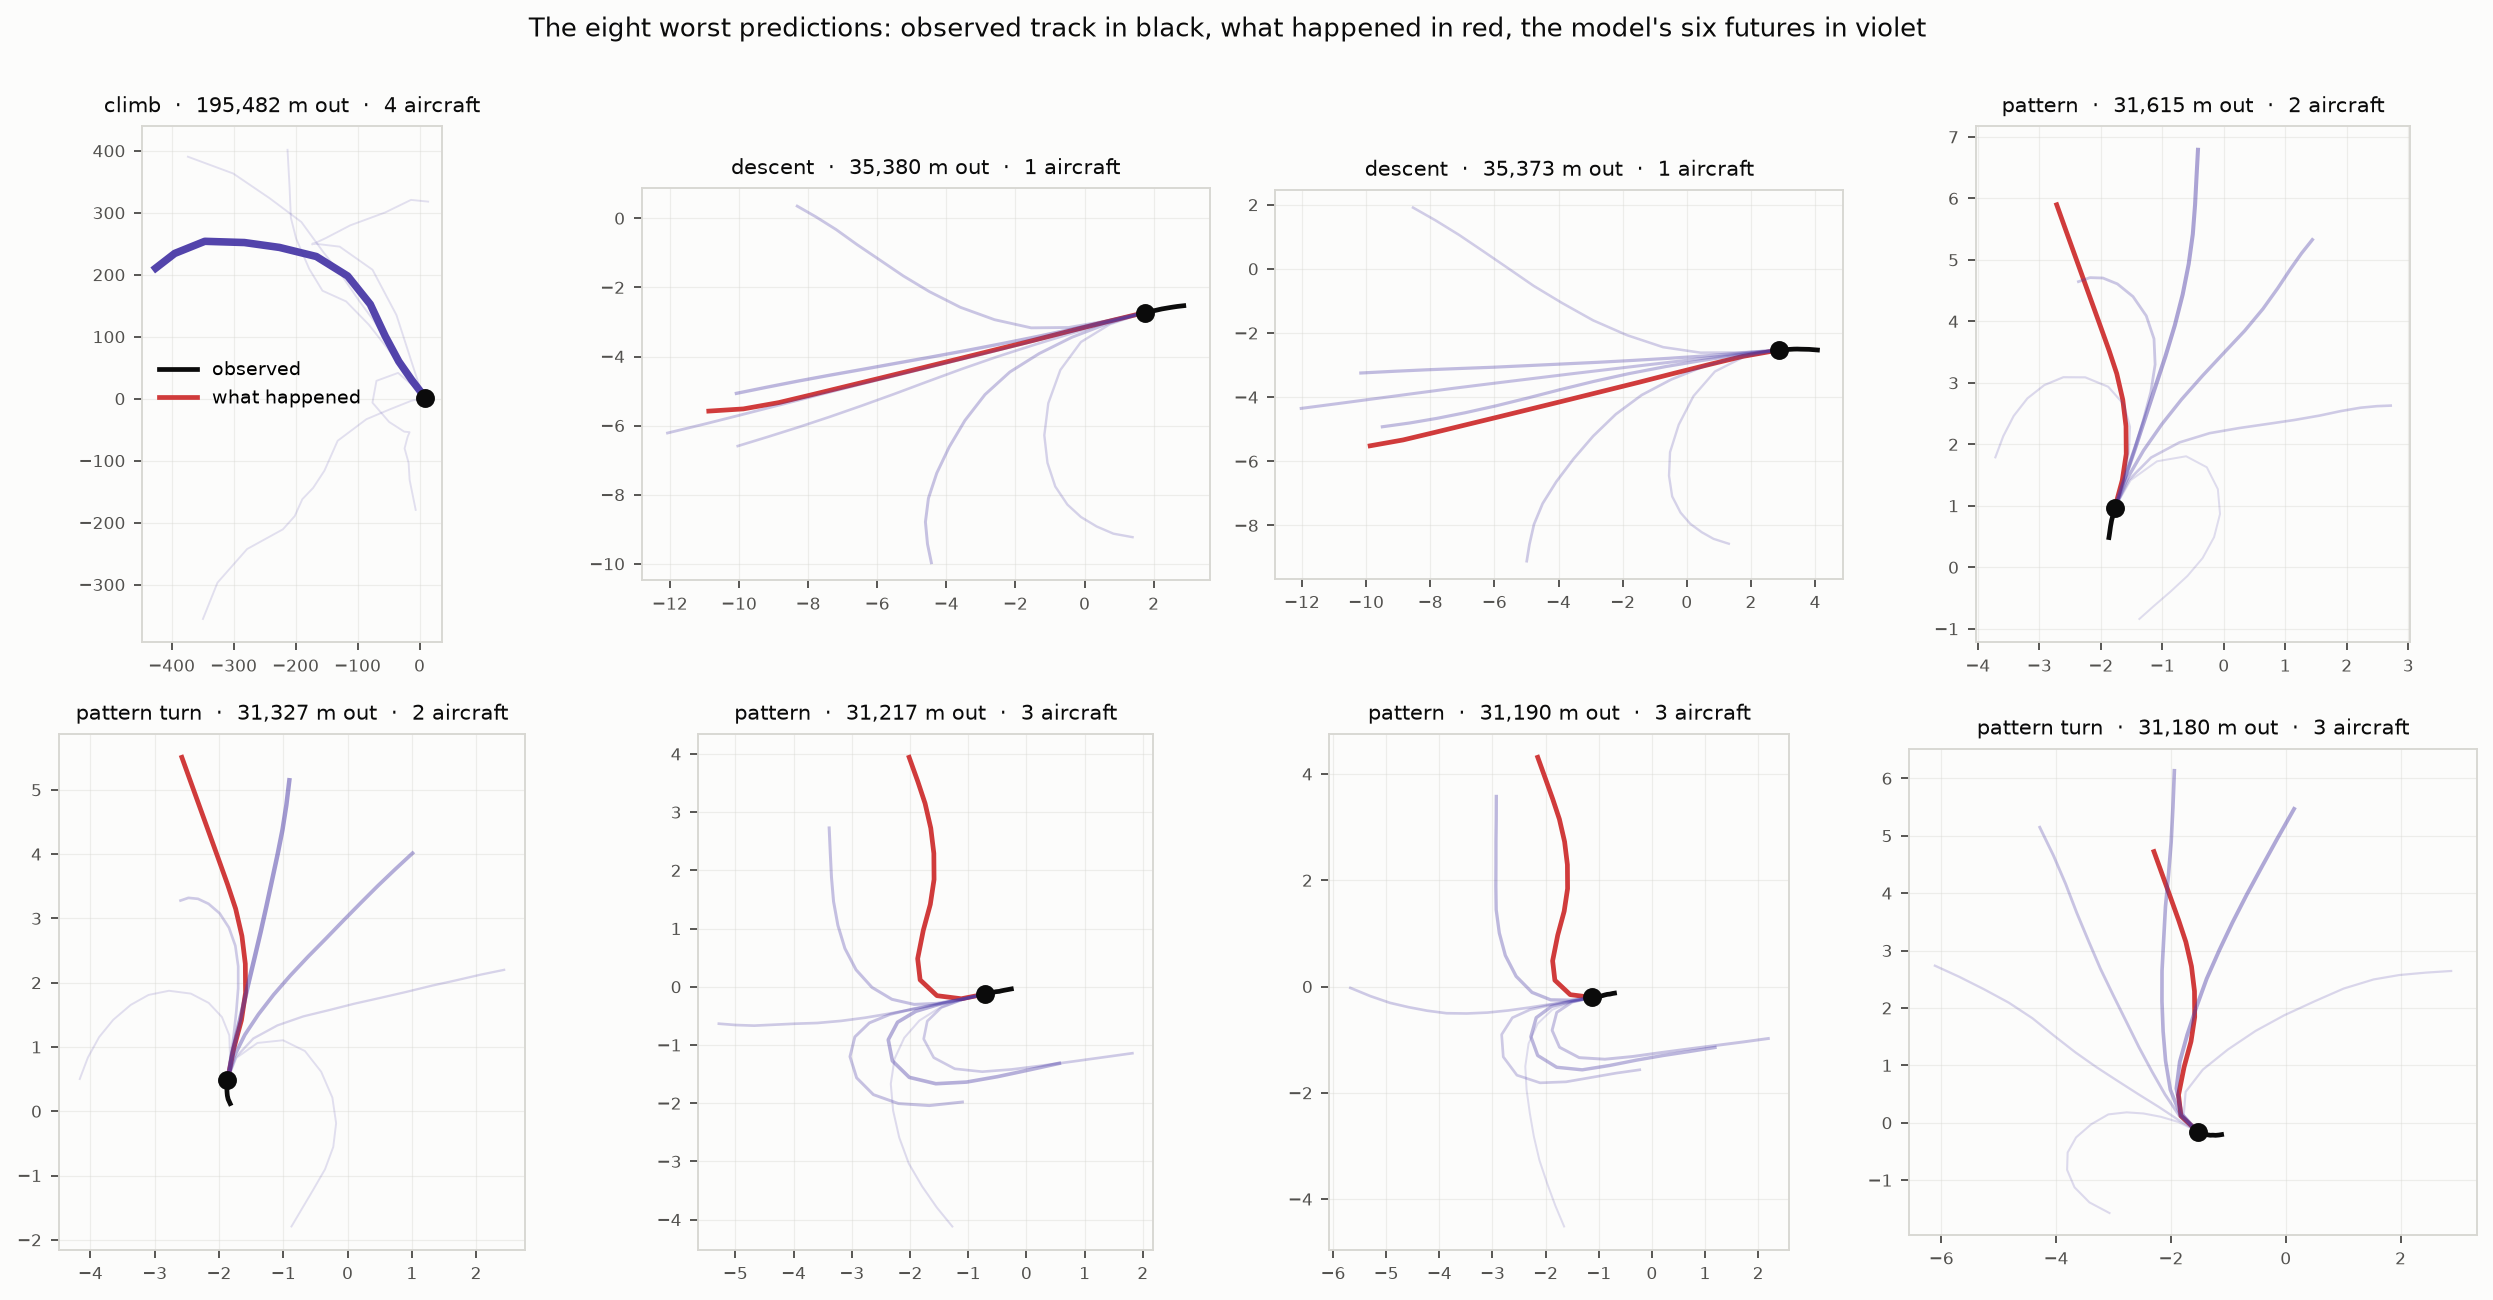
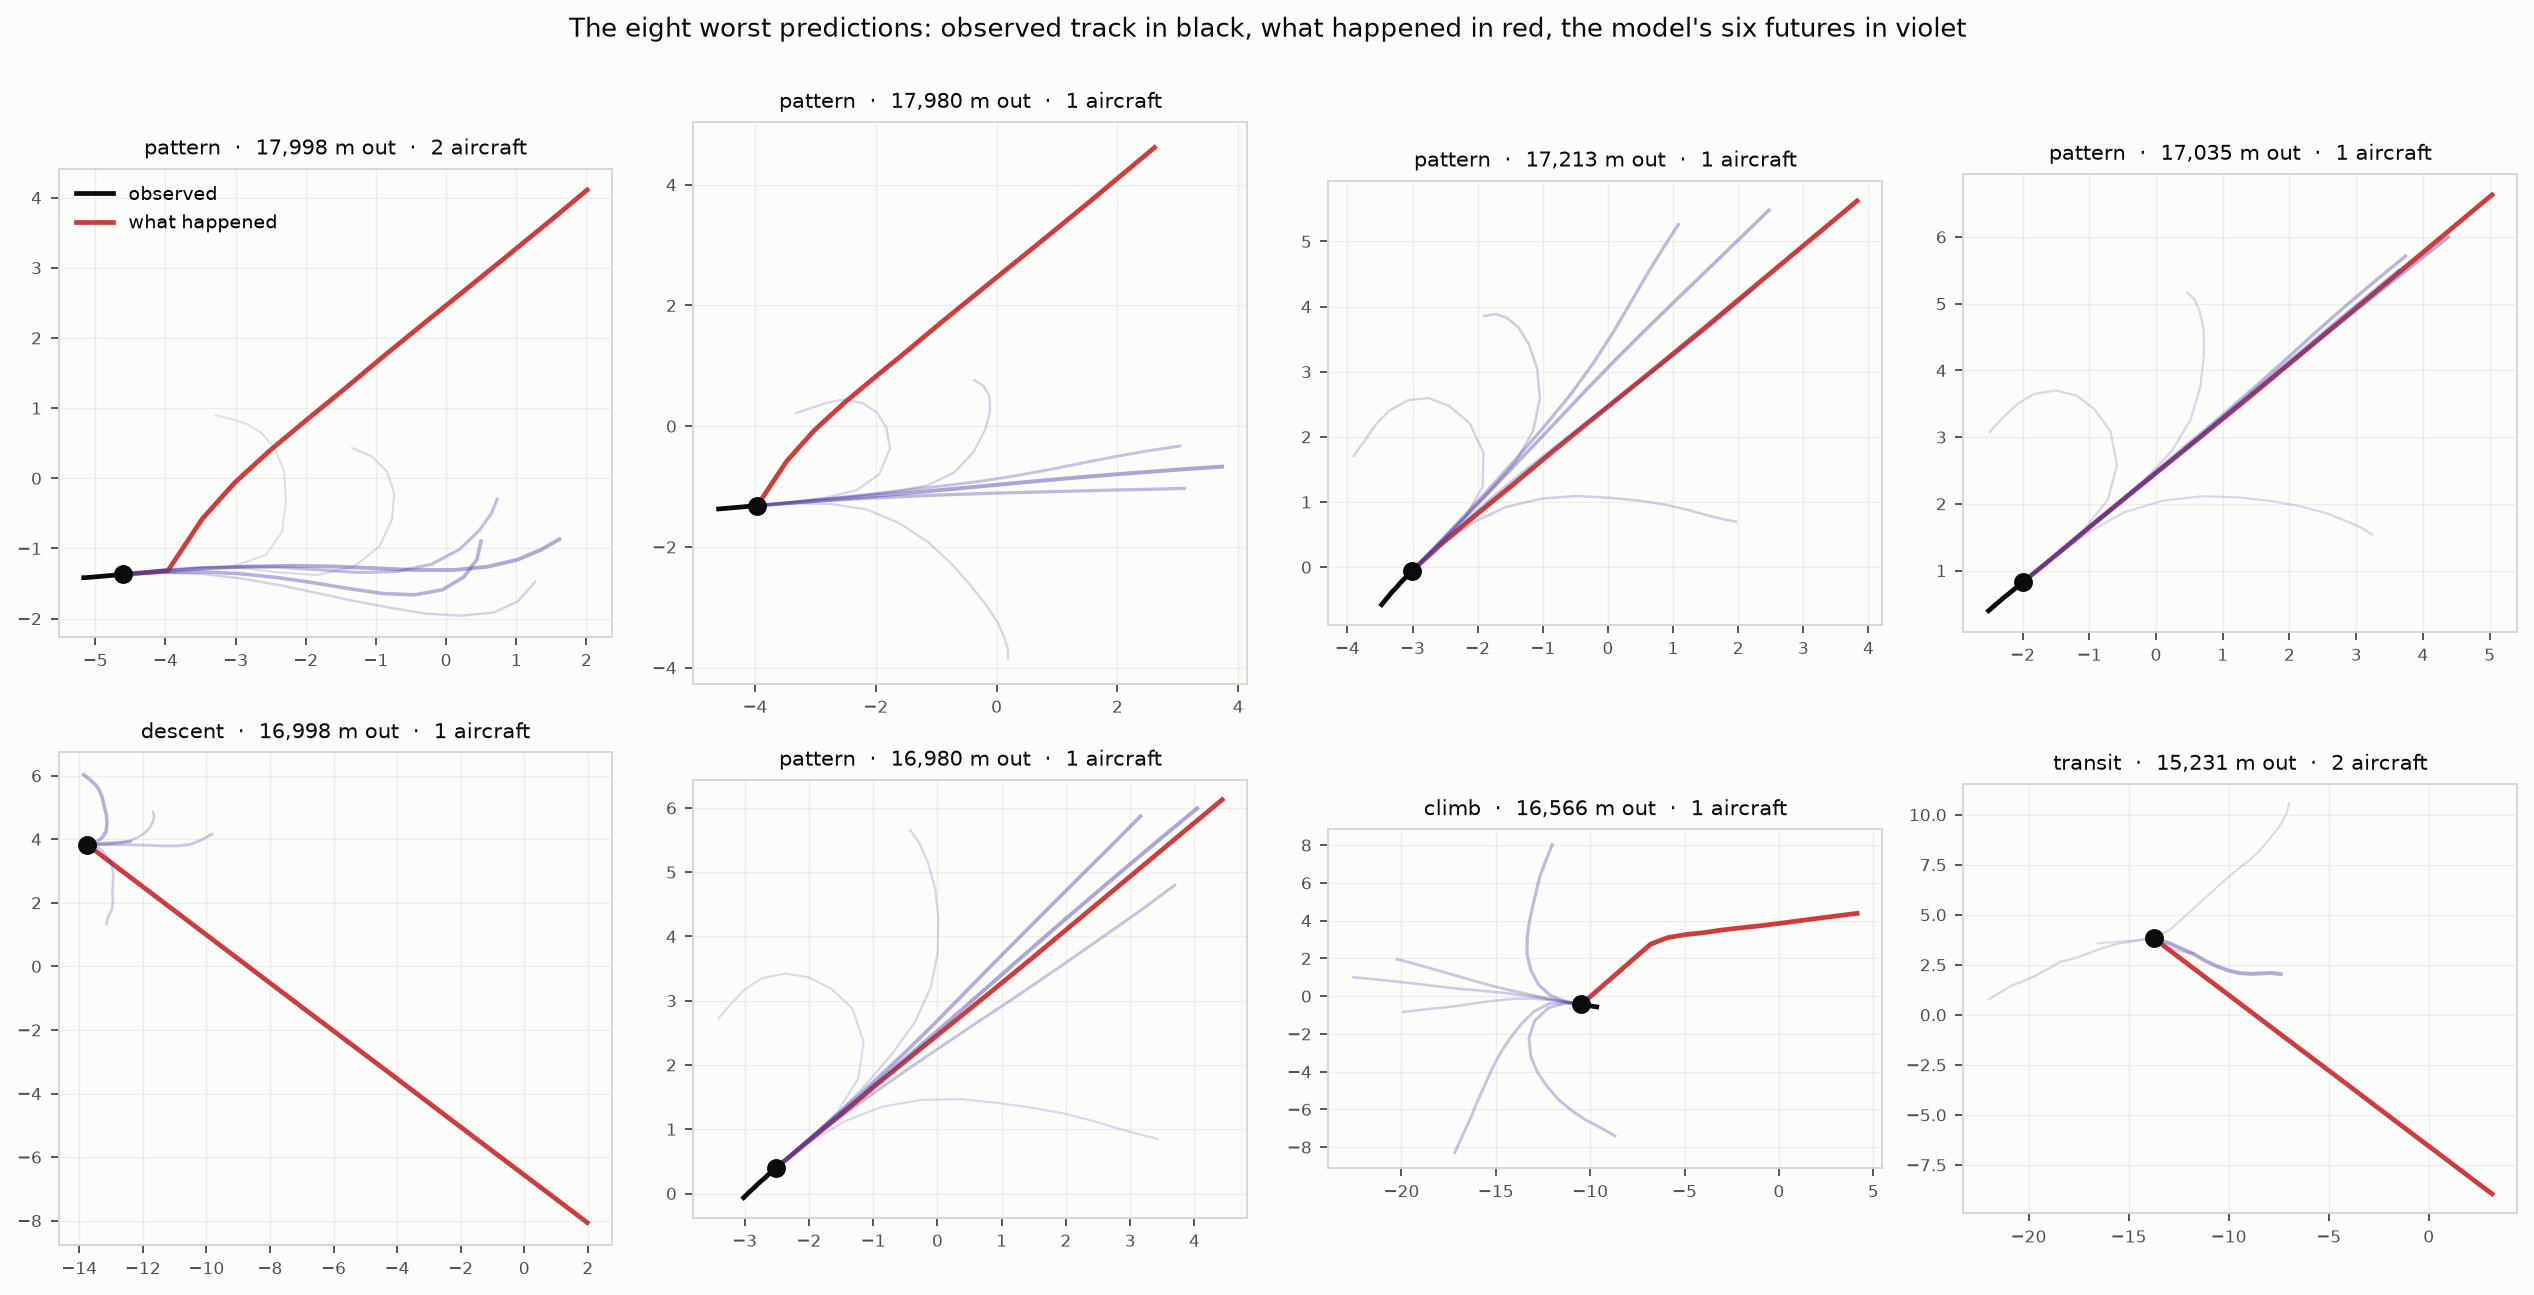
Describe the gallery as it actually looks
The draft text said the worst cases were circuit turns the model mispredicted. The figure says
otherwise: they are almost all fast aircraft leaving the area over 15 to 18 km, where the model
gets the direction right and falls kilometres short, or curls them into a circuit they never
flew. Trained at an airport where most traffic is doing circuits, it has learned that aircraft
turn back and applies that to aircraft that are simply departing, which is the phase table's
finding seen from the other side.

Also notes a limit of the phase labels: they describe the observed instant, so an aircraft low
and near the field reads as 'pattern' even when it is about to depart at speed.

diff --git a/README.md b/README.md
@@ -395,9 +395,17 @@ At a calibrated threshold of 0.5, across 1,688 conflicts in the held-out session
 
 ![The eight worst predictions](docs/figures/failure_gallery.png)
 
-The worst cases are mostly aircraft in the circuit that turn when the model expected them to
-continue, or continue when it expected a turn. Several show the model hedging correctly: one
-of the six hypotheses is close to what happened, but not the most likely one.
+The worst cases are not what the phase table might suggest. They are almost all fast aircraft
+leaving the area, covering 15 to 18 km in the two minutes, and the model consistently
+under-predicts how far they go: several panels show it getting the direction right and falling
+kilometres short, while others show it curling into a circuit pattern that the aircraft never
+flew. That is the same finding the phase table gives from the other direction, where a Kalman
+filter beats the model in transit, climb and descent. Trained on an airport where most traffic
+is doing circuits, the model has learned that aircraft turn back, and it applies that to
+aircraft that are simply leaving.
+
+It also shows a limit of the phase labels: they describe the observed instant, so an aircraft
+low and near the field is labelled "pattern" even when it is about to depart at speed.
 
 **Two things the gallery surfaced that the tables do not.**
 
